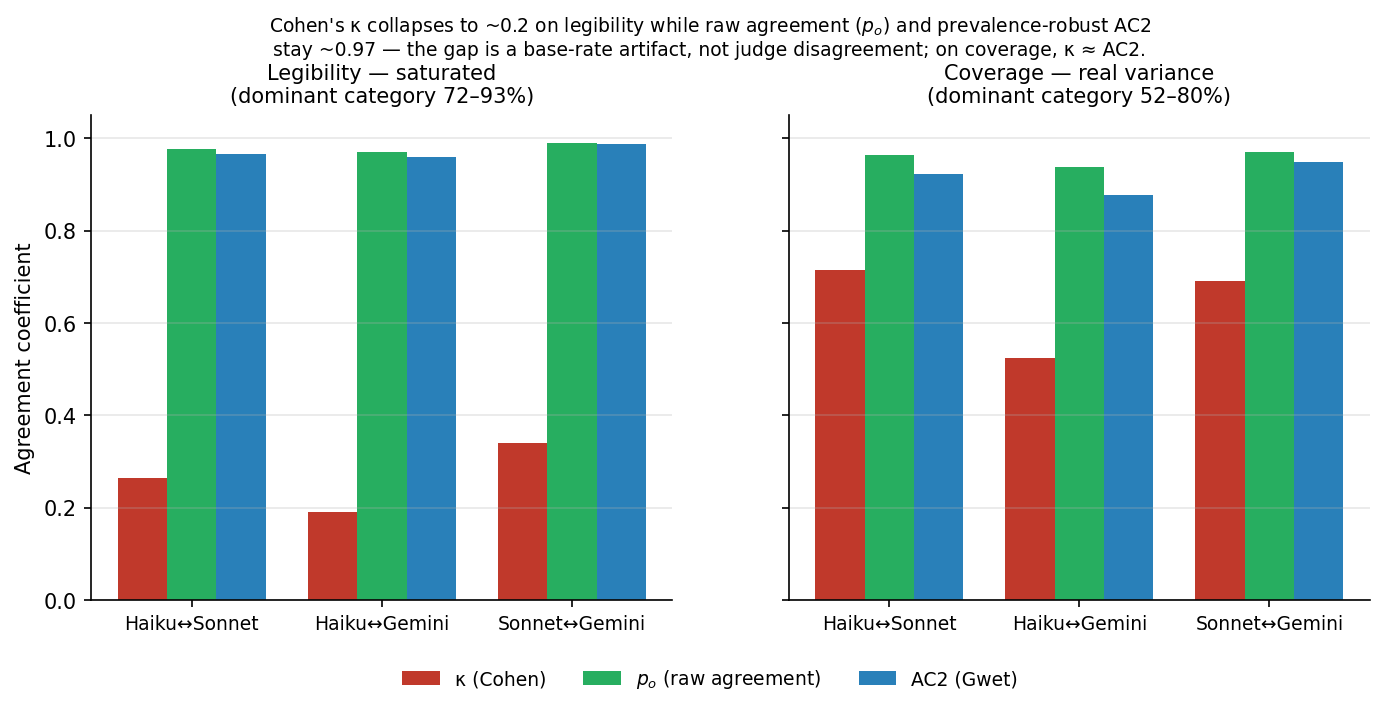
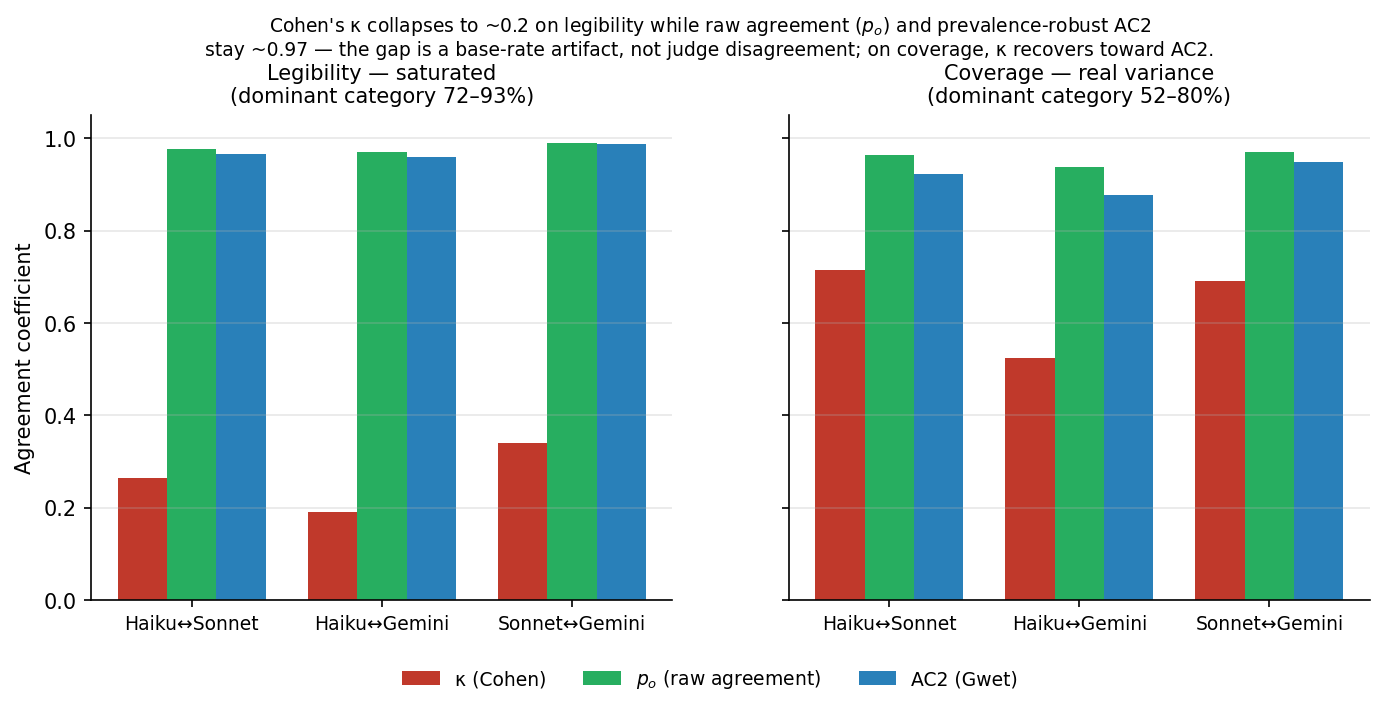
fig: correct coverage caption (κ recovers toward AC2, not ≈) to match the chart

Changed region(s): [[0.1553, 0.0617, 0.8699, 0.0926]]

diff --git a/results/figures.py b/results/figures.py
@@ -5,7 +5,7 @@ no model calls, $0) and renders ``results/kappa_degeneracy.png``: per axis × ju
 pair, Cohen's κ beside raw observed agreement ``p_o`` and prevalence-robust Gwet
 AC2. The point at a glance — on saturated **legibility**, κ collapses to ~0.2 while
 p_o/AC2 stay ~0.97 (the gap is a base-rate artifact, not judge disagreement); on
-**coverage** (real variance), κ ≈ AC2.
+**coverage** (real variance), κ recovers toward AC2.
 
 matplotlib is a figure-only dependency, NOT a cot-suite runtime dep. Run:
 
@@ -76,7 +76,7 @@ def main() -> None:
     fig.suptitle(
         "Cohen's κ collapses to ~0.2 on legibility while raw agreement ($p_o$) and "
         "prevalence-robust AC2\nstay ~0.97 — the gap is a base-rate artifact, not judge "
-        "disagreement; on coverage, κ ≈ AC2.",
+        "disagreement; on coverage, κ recovers toward AC2.",
         fontsize=9,
         y=1.04,
     )

diff --git a/docs/cross_judge_degeneracy.md b/docs/cross_judge_degeneracy.md
@@ -42,8 +42,8 @@ Appendix-C legibility/coverage rubric (0–4):
   same artifact drives the 36% legibility model-ranking "reversals" we also see —
   reorderings within a ~0.5-point band on a 4-point scale.)
 - **Coverage has real variance.** Dominant-fraction 0.52–0.80; κ (0.52–0.71) sits
-  close to AC2 and the rankings are judge-stable → genuine moderate-to-substantial
-  agreement on the axis that actually discriminates.
+  much closer to AC2 than on legibility and the rankings are judge-stable → genuine
+  moderate-to-substantial agreement on the axis that actually discriminates.
 
 ## The applied claim
 
@@ -85,8 +85,8 @@ flag per axis.
 and AC2 = 0.96–0.99 — they agree on ~98% of items. Every judge scores ≥72% of CoTs in
 one bucket. The low κ is the paradox, not disagreement.
 
-5/ Coverage (real variance, less saturated): κ = 0.52–0.71, close to AC2, rankings
-judge-stable → genuine agreement. So κ *does* track agreement where there's spread —
+5/ Coverage (real variance, less saturated): κ = 0.52–0.71, far closer to AC2 than on
+legibility, rankings judge-stable → genuine agreement. So κ *does* track agreement where there's spread —
 it only breaks on the saturated axis.
 
 6/ Why it matters: frontier-model legibility is exactly E&Z's "high monitorability by

diff --git a/WRITEUP.md b/WRITEUP.md
@@ -12,7 +12,7 @@ What is worth showing is where it bites. Cross-judge κ is increasingly used to 
 
 ## Both directions, honestly
 
-This is not "LLM judges are unreliable." On coverage, the axis with real score variance (dominant category 52–80%, not saturated), κ runs 0.52–0.71, sits close to AC2, and the model rankings are judge-stable. Where there is spread, κ tracks agreement; it breaks only on the saturated axis. The takeaway is procedural: report a prevalence-robust coefficient and a saturation flag alongside κ before concluding a monitorability metric is judge-sensitive.
+This is not "LLM judges are unreliable." On coverage, the axis with real score variance (dominant category 52–80%, not saturated), κ runs 0.52–0.71, sits much closer to AC2 than on legibility, and the model rankings are judge-stable. Where there is spread, κ tracks agreement; it breaks only on the saturated axis. The takeaway is procedural: report a prevalence-robust coefficient and a saturation flag alongside κ before concluding a monitorability metric is judge-sensitive.
 
 The data is a $0 re-analysis of committed scores: three judges (Claude Haiku 4.5, Claude Sonnet 4.6, Gemini 2.5 Pro) scoring 773 GPQA-Diamond chain-of-thoughts on Emmons & Zimmermann's legibility/coverage rubric. No new model calls.
 
@@ -36,7 +36,7 @@ This is a finding, not a finished paper. It rests on three judges and one rubric
 
 4/ Why it matters: frontier-model legibility is the "high monitorability by default" regime these metrics target, and it is near-ceiling, which is exactly where κ is least trustworthy. A judge substitute that looks unreliable (κ = 0.19) can be a faithful one (p_o = 0.97).
 
-5/ Both directions: on coverage (real variance, dominant category 52–80%) κ = 0.52–0.71, close to AC2, rankings judge-stable. So this is not "judges are unreliable." It is "check saturation before concluding judge-sensitivity."
+5/ Both directions: on coverage (real variance, dominant category 52–80%) κ = 0.52–0.71, far closer to AC2 than on legibility, rankings judge-stable. So this is not "judges are unreliable." It is "check saturation before concluding judge-sensitivity."
 
 6/ A recent classifier-sensitivity result (Young, 2603.20172) reads low cross-classifier κ as construct divergence, without separating the saturation artifact from real disagreement. The decomposition that proves the split (McNemar + prevalence index) and a K=2 generalization are in progress, not done.
 